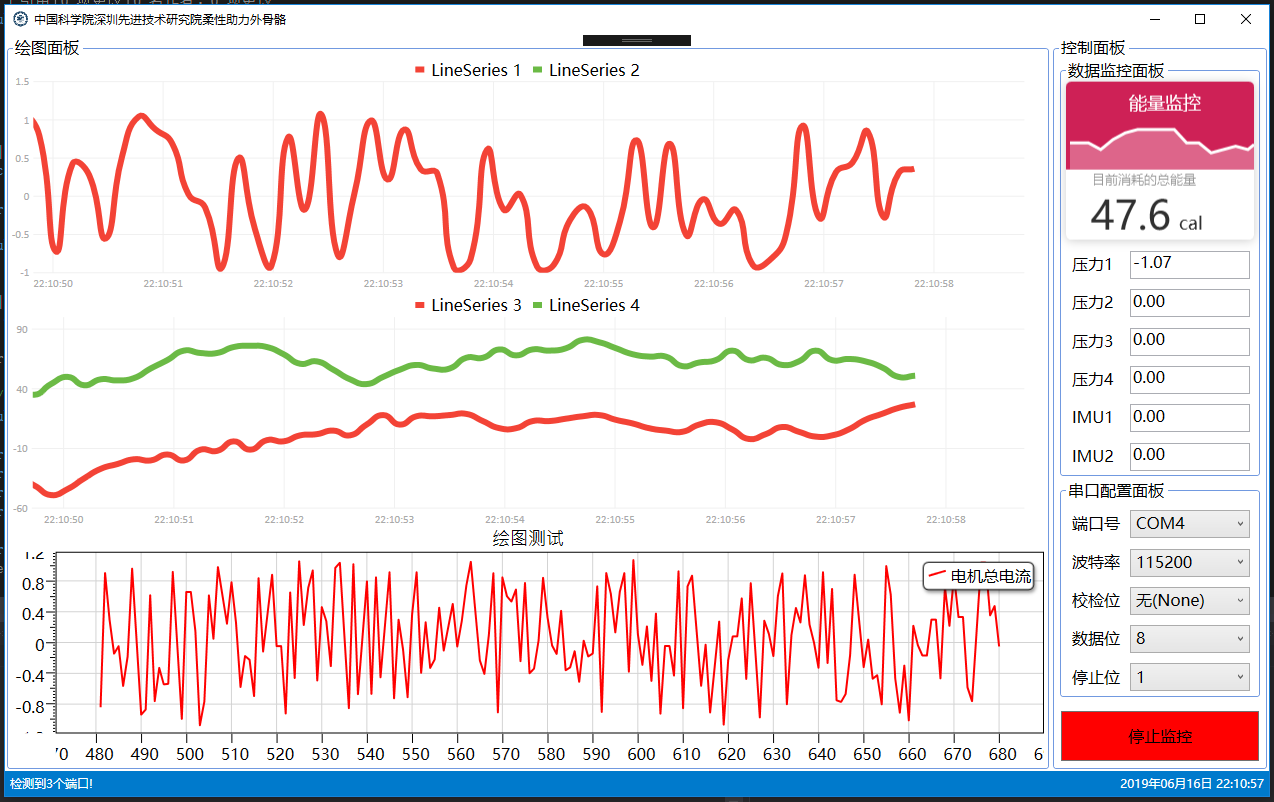
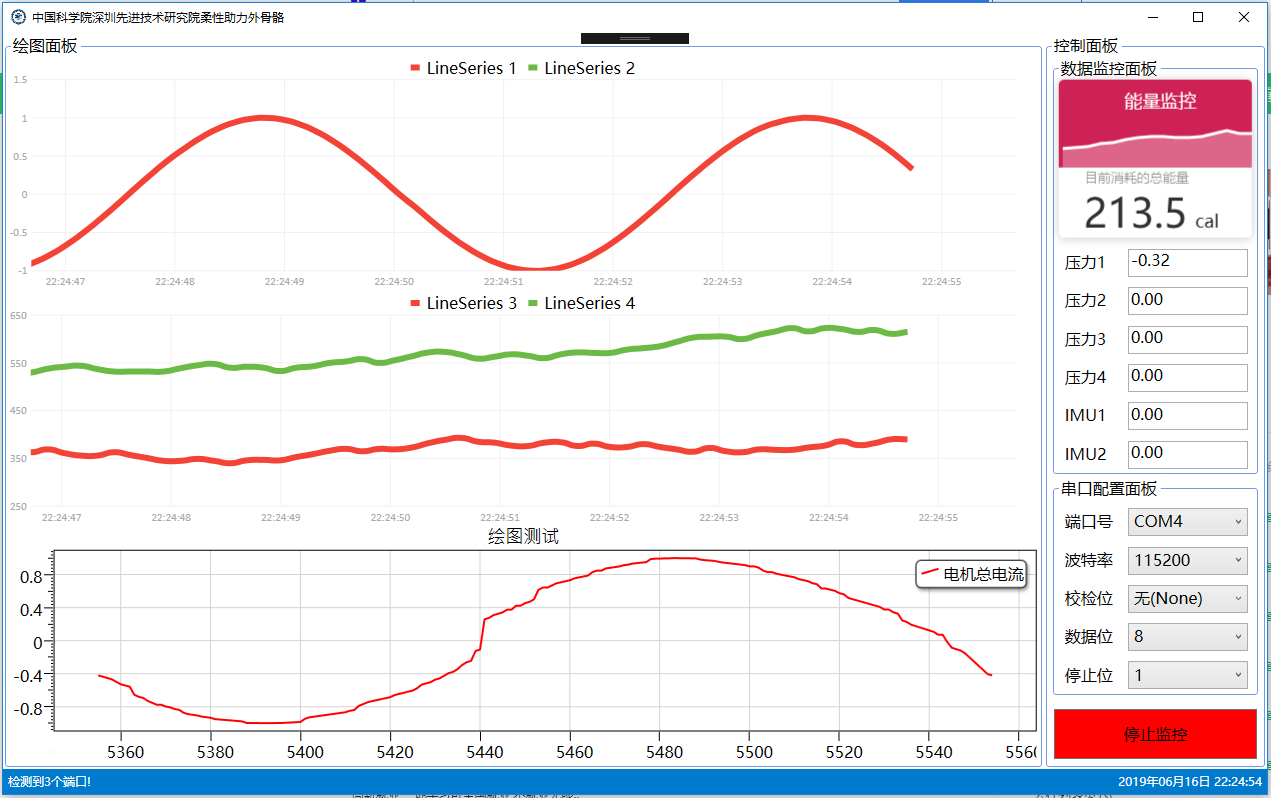
【成功画出下位机正弦信号】
受https://zhidao.baidu.com/question/305318323696072964.html启发，调换了bytes数组高低位；
猜测BitConverter与串口读到的bytes数组高低位次序相反

diff --git a/FlexibleExoskeleton/FlexibleExoskeleton/Ports.cs b/FlexibleExoskeleton/FlexibleExoskeleton/Ports.cs
@@ -82,9 +82,13 @@ namespace FlexibleExoskeleton
                    
                     if (frame_head == 43690)
                     {
-                        pressures[0] = (float)BitConverter.ToInt32(bytes, 4) / 2000000000;
+                        byte[] test = new byte[4];
+                        test[0] = bytes[7];
+                        test[1] = bytes[6];
+                        test[2] = bytes[5];
+                        test[3] = bytes[4];
 
-                        float temp = pressures[0];
+                        pressures[0] = BitConverter.ToSingle(test, 0);
 
                         //for (int f = 0; f < 8; f++)
                         //{
